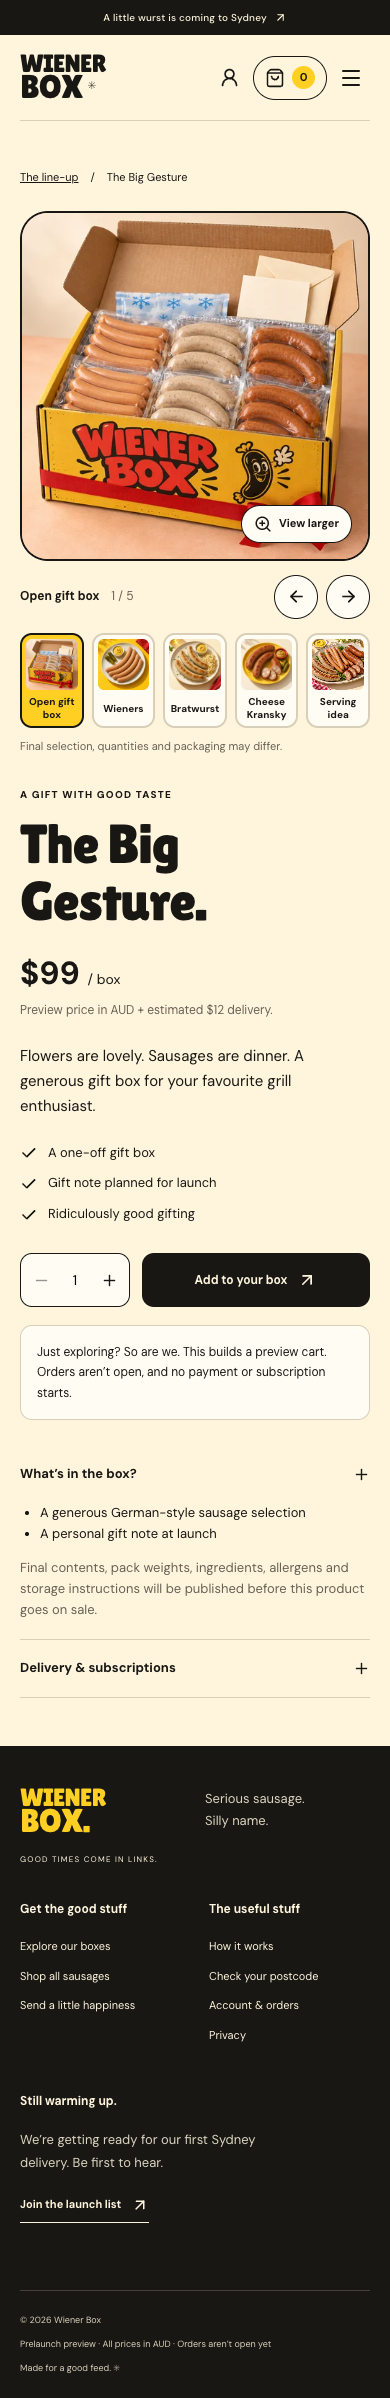
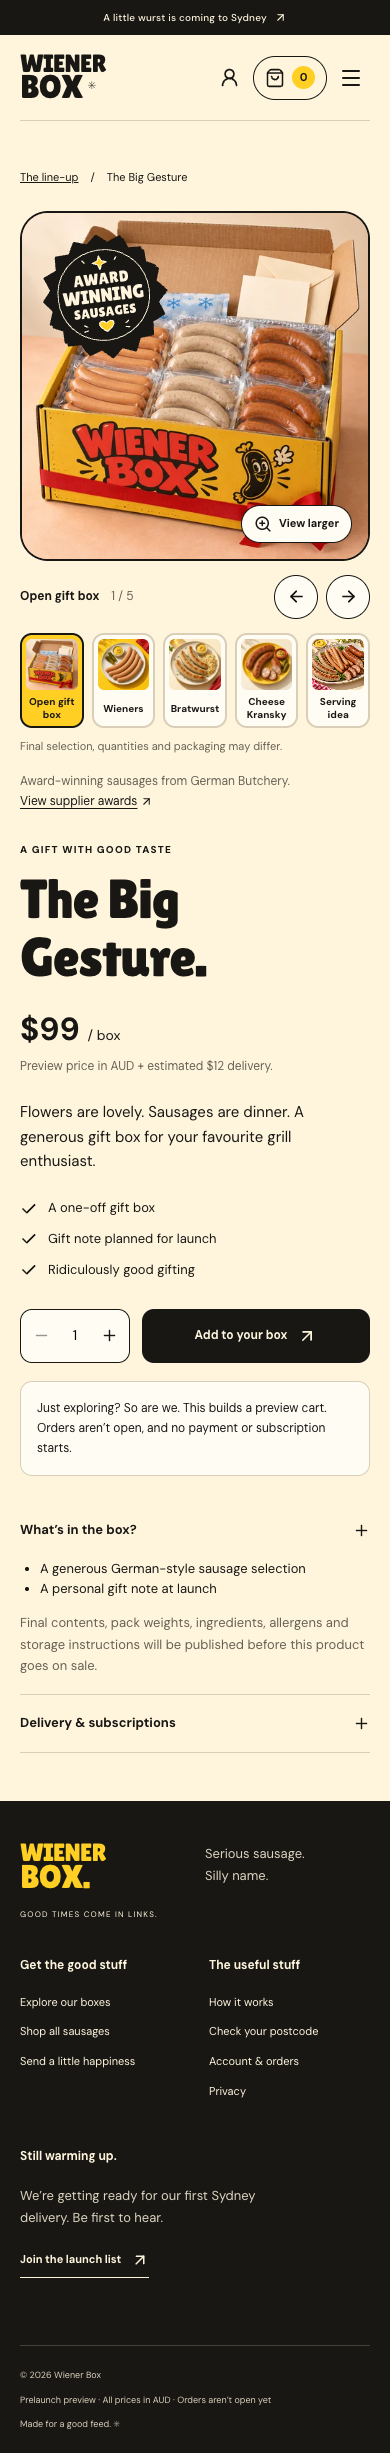
deploy fix

diff --git a/resources/js/components/ProductBadge.vue b/resources/js/components/ProductBadge.vue
@@ -1,0 +1,55 @@
+<script setup lang="ts">
+import { computed } from 'vue';
+import { productBadge } from '../productBadges';
+
+const props = defineProps<{ slug: string }>();
+const badge = computed(() => productBadge(props.slug));
+const outline = computed(() => {
+    if (!badge.value) return '';
+    const { points, innerRadius } = badge.value;
+    return Array.from({ length: points * 2 }, (_, index) => {
+        const angle = (index * Math.PI) / points - Math.PI / 2;
+        const radius = index % 2 ? innerRadius : 94 + (index % 3);
+        return `${(100 + Math.cos(angle) * radius).toFixed(2)},${(100 + Math.sin(angle) * radius).toFixed(2)}`;
+    }).join(' ');
+});
+</script>
+<template>
+    <span
+        v-if="badge"
+        class="product-badge"
+        :class="`product-badge--${badge.variant}`"
+        :style="{ '--badge-rotation': `${badge.rotation}deg` }"
+        role="img"
+        aria-label="Award winning sausages · German Butchery range"
+    >
+        <svg viewBox="0 0 208 208" aria-hidden="true" focusable="false">
+            <polygon class="badge-shadow" :points="outline" transform="translate(4 5)" />
+            <polygon class="badge-burst" :points="outline" />
+            <path
+                class="badge-centre"
+                d="M100 29C141 28 173 60 173 100C174 140 141 171 101 172C61 172 28 141 29 101C27 61 60 30 100 29Z"
+            />
+            <g class="badge-sparkles" stroke-linecap="round" stroke-linejoin="round">
+                <path d="M100 38L103 46L111 49L103 52L100 60L97 52L89 49L97 46Z" />
+                <path d="M76 47L73 43M124 47L127 43" fill="none" />
+            </g>
+            <g class="badge-lettering" text-anchor="middle">
+                <text class="badge-award" x="100" y="83">AWARD</text>
+                <text class="badge-winning" x="100" y="111">WINNING</text>
+                <text class="badge-sausages" x="100" y="134">SAUSAGES</text>
+            </g>
+            <g class="badge-flourish" stroke-linecap="round" stroke-linejoin="round">
+                <path
+                    v-if="badge.variant === 'ink'"
+                    d="M100 158C78 145 94 136 100 145C107 136 122 145 100 158Z"
+                />
+                <path
+                    v-else
+                    d="M86 146C94 153 105 153 113 145C117 141 122 148 117 153C106 165 90 162 82 153C78 149 82 142 86 146Z"
+                />
+                <path d="M70 148L65 145M70 154L64 155M130 148L135 145M130 154L136 155" fill="none" />
+            </g>
+        </svg>
+    </span>
+</template>

diff --git a/resources/js/mascotArtwork.ts b/resources/js/mascotArtwork.ts
@@ -1,22 +1,22 @@
 export const mascotArtwork = {
-    'step-love': {
-        src: '/images/mascots/step-love-720.webp',
-        srcset: '/images/mascots/step-love-360.webp 360w, /images/mascots/step-love-720.webp 720w',
-        mask: '/images/mascots/step-love-outline.svg',
+    'step-box': {
+        src: '/images/mascots/step-box-720.webp',
+        srcset: '/images/mascots/step-box-360.webp 360w, /images/mascots/step-box-720.webp 720w',
+        mask: '/images/mascots/step-box-outline.svg',
         width: 720,
         height: 720,
     },
-    'step-roll': {
-        src: '/images/mascots/step-roll-720.webp',
-        srcset: '/images/mascots/step-roll-360.webp 360w, /images/mascots/step-roll-720.webp 720w',
-        mask: '/images/mascots/step-roll-outline.svg',
+    'step-truck': {
+        src: '/images/mascots/step-truck-720.webp',
+        srcset: '/images/mascots/step-truck-360.webp 360w, /images/mascots/step-truck-720.webp 720w',
+        mask: '/images/mascots/step-truck-outline.svg',
         width: 720,
         height: 720,
     },
-    'step-grill': {
-        src: '/images/mascots/step-grill-720.webp',
-        srcset: '/images/mascots/step-grill-360.webp 360w, /images/mascots/step-grill-720.webp 720w',
-        mask: '/images/mascots/step-grill-outline.svg',
+    'step-bbq': {
+        src: '/images/mascots/step-bbq-720.webp',
+        srcset: '/images/mascots/step-bbq-360.webp 360w, /images/mascots/step-bbq-720.webp 720w',
+        mask: '/images/mascots/step-bbq-outline.svg',
         width: 720,
         height: 720,
     },

diff --git a/resources/js/Pages/Home.vue b/resources/js/Pages/Home.vue
@@ -120,7 +120,7 @@ const faqs = [
                         <div class="step-illustration">
                             <span class="step-number">01</span>
                             <MascotArtwork
-                                pose="step-love"
+                                pose="step-box"
                                 sizes="(max-width: 639px) 240px, (max-width: 899px) 200px, 260px"
                             />
                         </div>
@@ -132,7 +132,7 @@ const faqs = [
                         <div class="step-illustration">
                             <span class="step-number">02</span>
                             <MascotArtwork
-                                pose="step-roll"
+                                pose="step-truck"
                                 sizes="(max-width: 639px) 240px, (max-width: 899px) 200px, 260px"
                             />
                         </div>
@@ -147,7 +147,7 @@ const faqs = [
                         <div class="step-illustration">
                             <span class="step-number">03</span>
                             <MascotArtwork
-                                pose="step-grill"
+                                pose="step-bbq"
                                 sizes="(max-width: 639px) 240px, (max-width: 899px) 200px, 260px"
                             />
                         </div>

diff --git a/resources/js/productBadges.ts b/resources/js/productBadges.ts
@@ -1,0 +1,11 @@
+export const productBadges = {
+    'the-regular': { variant: 'mustard', points: 14, innerRadius: 79, rotation: -10 },
+    'the-fling': { variant: 'red', points: 12, innerRadius: 77, rotation: 9 },
+    'the-big-gesture': { variant: 'ink', points: 16, innerRadius: 82, rotation: -7 },
+} as const;
+
+export function productBadge(slug: string) {
+    return Object.hasOwn(productBadges, slug) ? productBadges[slug as keyof typeof productBadges] : null;
+}
+
+export const supplierAwardsUrl = 'https://www.german-butchery.com.au/awards';

diff --git a/docs/design-guidelines.md b/docs/design-guidelines.md
@@ -121,9 +121,9 @@ Use a distinct supporting pose in each section below the hero. Keep the hero tre
 | Sausage showcase | `grill`: chef's hat, tongs and thumbs-up | Small accent at the photo's lower-right edge, clear of the caption |
 | Pick your box | `choose`: welcoming hand and downward point | Beside the section heading, pointing toward the range |
 | How it works | `deliver`: walking with a parcel | Beside the heading above the three steps |
-| Pick a box step | `step-love`: hugging an open box with floating hearts | Above step 01; “Love at first bite.” |
-| Delivery step | `step-roll`: roller-skating with a parcel | Above step 02; “We’re on a roll.” |
-| BBQ step | `step-grill`: chef with tongs and a red kettle barbecue | Above step 03; “Licence to grill.” |
+| Pick a box step | `step-box`: open mustard insulated carton with red tape | Above step 01; “Love at first bite.” |
+| Delivery step | `step-truck`: compact refrigerated delivery vehicle | Above step 02; “We’re on a roll.” |
+| BBQ step | `step-bbq`: red kettle barbecue with an open lid and tongs | Above step 03; “Licence to grill.” |
 | Gifting | `gift`: holding a wrapped present | Alongside the gift action |
 | FAQs | `curious`: finger on chin | Beside the introduction, clear of the disclosure controls |
 | Launch signup | `announce`: waving with a megaphone | Beside the introductory copy, outside the form |
@@ -132,7 +132,7 @@ Render these through `MascotArtwork.vue` and the `mascotArtwork.ts` asset mappin
 
 Original artwork lives in `brand/mascots`; 360 and 720 px WebP copies and vector display masks live in `public/images/mascots`. Exact built-in generation prompts and source references are recorded in `brand/image-prompts.md`.
 
-The “From our box to your BBQ” steps use illustrated scenes instead of line icons. Keep square compositions, equal artwork space, mustard numbered badges and short red display-font pun captions above the practical headings. Render captions as live text, never baked into artwork. Use a three-column layout on larger screens and stack the complete steps on mobile. Preserve small scene details in the display masks as well as the main character; leave clear space between the numbering and artwork.
+The “From our box to your BBQ” columns use object illustrations: an insulated carton, a compact refrigerated delivery vehicle and a kettle barbecue. Keep the single delivery mascot beside the section heading; do not repeat characters within the columns. Objects match the mascot's thick black outlines, rounded shapes, warm palette and restrained print texture, without faces or limbs. Keep square compositions, equal artwork space, mustard numbered badges and short red display-font pun captions above the practical headings. Render captions as live text, never baked into artwork. Use a three-column layout on larger screens and stack the complete steps on mobile. Preserve small object details and negative spaces in the display masks; leave clear space between the numbering and artwork.
 
 ### Food photography
 
@@ -150,7 +150,7 @@ Every launch product has selectable thumbnails: five views for boxes and two for
 
 Provide previous/next buttons, a visible image count and pressed states on thumbnails. Support arrow keys, Home/End and horizontal swipes; do not autoplay. Open the larger view in a native modal dialog with contained keyboard focus, Escape and a visible close button. Restore focus and page scrolling on close or navigation. Preserve the complete image in the main gallery and enlarged view, and show a useful message if an image fails to load.
 
-Use one consistent outline icon family (Lucide) for functional controls, with 1.8–2 px strokes. Standard sizes: 16, 20 and 24 px. Icons accompany labels unless the function has an accessible name. The homepage's box-to-BBQ storytelling steps use the mascot illustrations above.
+Use one consistent outline icon family (Lucide) for functional controls, with 1.8–2 px strokes. Standard sizes: 16, 20 and 24 px. Icons accompany labels unless the function has an accessible name. The homepage's box-to-BBQ storytelling steps use the object illustrations above.
 
 ## 7. Voice and shopping clarity
 
